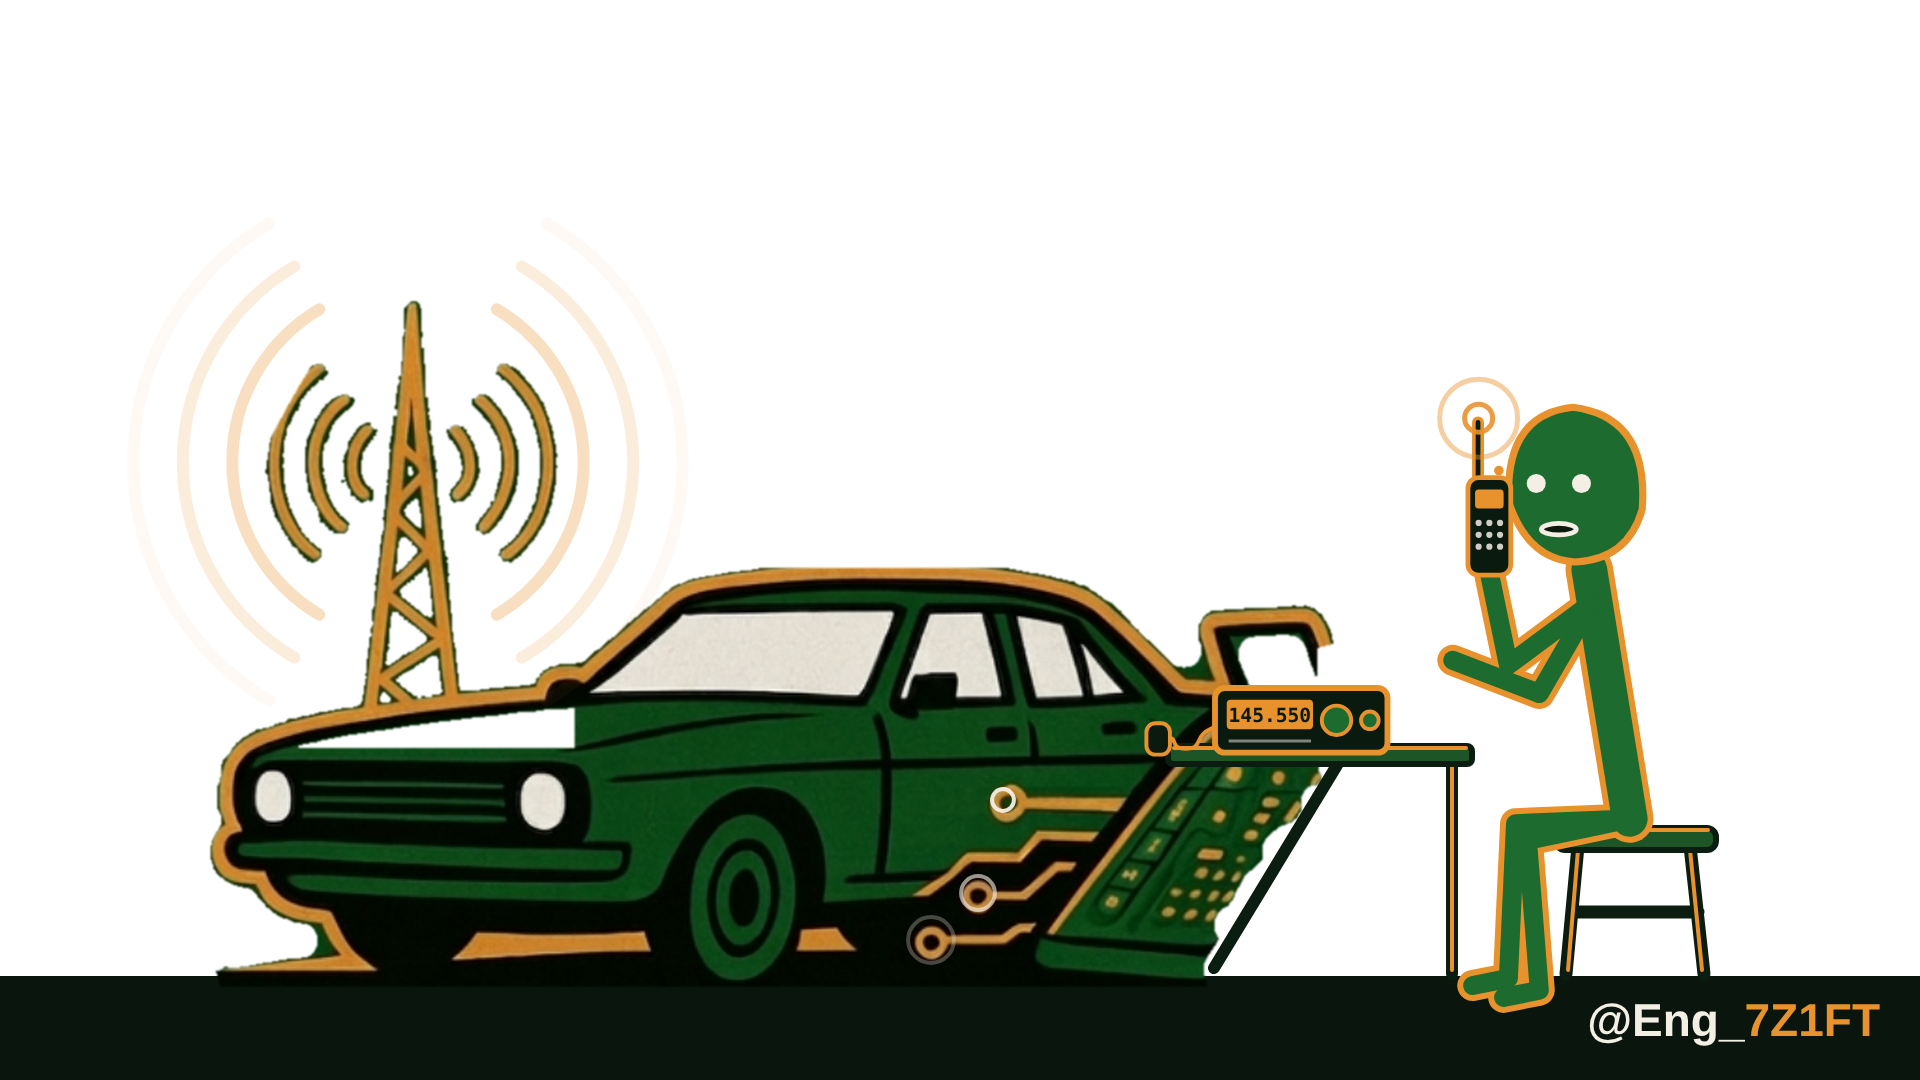
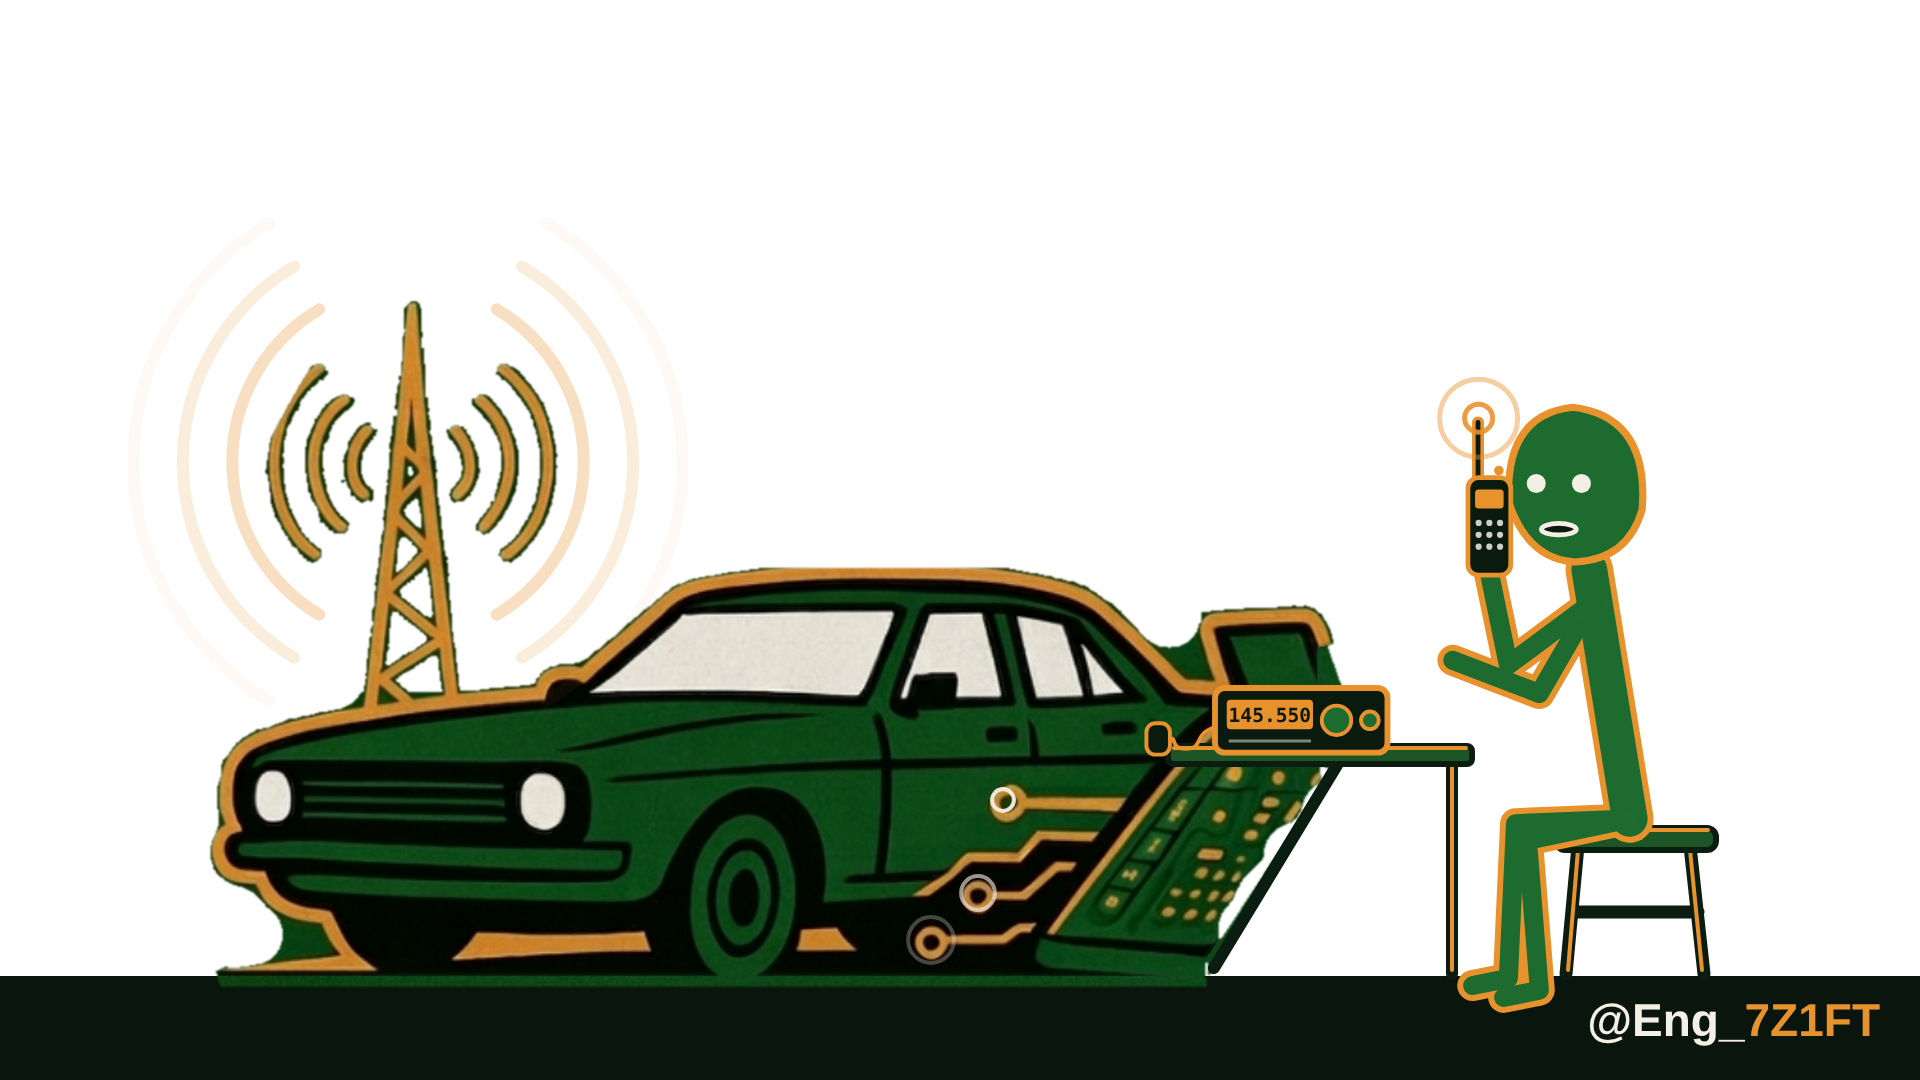
Fix cut-out: keep car, console and laptop fills opaque
Claude-Session: https://claude.ai/code/session_01MNZc9ySQF9u7kcacVr9AHr

diff --git a/stickman/make_logo_scene.py b/stickman/make_logo_scene.py
@@ -30,6 +30,7 @@ rng = np.random.default_rng(3)
 grain = cv2.GaussianBlur(rng.normal(0, 6, (H, W)).astype(np.float32), (3, 3), 0)[..., None]
 res = res + grain * (1 - soft)
 # feather the person patch edge
+clean = np.clip(res, 0, 255).astype(np.uint8)
 # ground: dark band like the logo, below GROUND
 g = np.clip((yy - GROUND) / 14.0, 0, 1)[..., None]
 dark = np.zeros_like(res); dark[..., 0] = 10; dark[..., 1] = 22; dark[..., 2] = 13
@@ -47,18 +48,25 @@ if len(sys.argv) > 3:
     bgpix = ((gch > 55) & (gch - r > 18) & (gch - b > 8)).astype(np.uint8)
     keep = np.ones((H, W), np.uint8)
     keep[~(((xx-CX)**2 + (yy-CY)**2 < R*R) & (yy < GROUND + 8))] = 0     # outside disk / below ground
-    keep[(yy < 555) & (xx > 430)] = 0                                    # shahada + sword
+    keep[(yy < 555) & (xx > 418)] = 0                                    # shahada + sword
     keep[pm > 0] = 0                                                     # the seated man
     # object silhouettes: non-green pixels, closed and hole-filled, so car/console fills stay
     obj = ((bgpix == 0) & (keep > 0)).astype(np.uint8) * 255
-    obj = cv2.morphologyEx(obj, cv2.MORPH_CLOSE, cv2.getStructuringElement(cv2.MORPH_ELLIPSE, (25, 25)))
+    obj = cv2.morphologyEx(obj, cv2.MORPH_CLOSE, cv2.getStructuringElement(cv2.MORPH_ELLIPSE, (45, 45)))
     ff = obj.copy(); m2 = np.zeros((H + 2, W + 2), np.uint8); cv2.floodFill(ff, m2, (5, 5), 255)
     sil = obj | cv2.bitwise_not(ff)
     n, lab, st, _ = cv2.connectedComponentsWithStats(sil)
     for i in range(1, n):
         if st[i, cv2.CC_STAT_AREA] < 1500: sil[lab == i] = 0                  # specks
-    tower = (xx > 190) & (xx < 430) & (yy > 360) & (yy < 690) & (bgpix > 0)   # lattice holes + gaps between arcs
+    tower = (xx > 190) & (xx < 430) & (yy > 360) & (yy < 648) & (bgpix > 0)   # lattice holes + gaps between arcs
     alpha = (sil > 0) & (keep > 0) & ~tower
+    # console + laptop parts that were hidden behind the man: keep them, coloured from the repaired image
+    side = (yy - 694) * (910 - 1009) - (xx - 1009) * (856 - 694) > 0       # left of the console's right edge
+    alpha |= (pm > 0) & side & (yy > 694) & (yy < GROUND)
+    lid = np.zeros((H, W), np.uint8)
+    cv2.fillPoly(lid, [np.array([[900,588],[985,586],[1012,662],[1005,692],[950,694],[925,642],[900,642]], np.int32)], 1)
+    alpha |= lid > 0
+    src8 = clean
     a = alpha.astype(np.uint8) * 255
     a = cv2.morphologyEx(a, cv2.MORPH_OPEN, np.ones((3, 3), np.uint8))        # drop specks
     a = cv2.erode(a, np.ones((2, 2), np.uint8))
